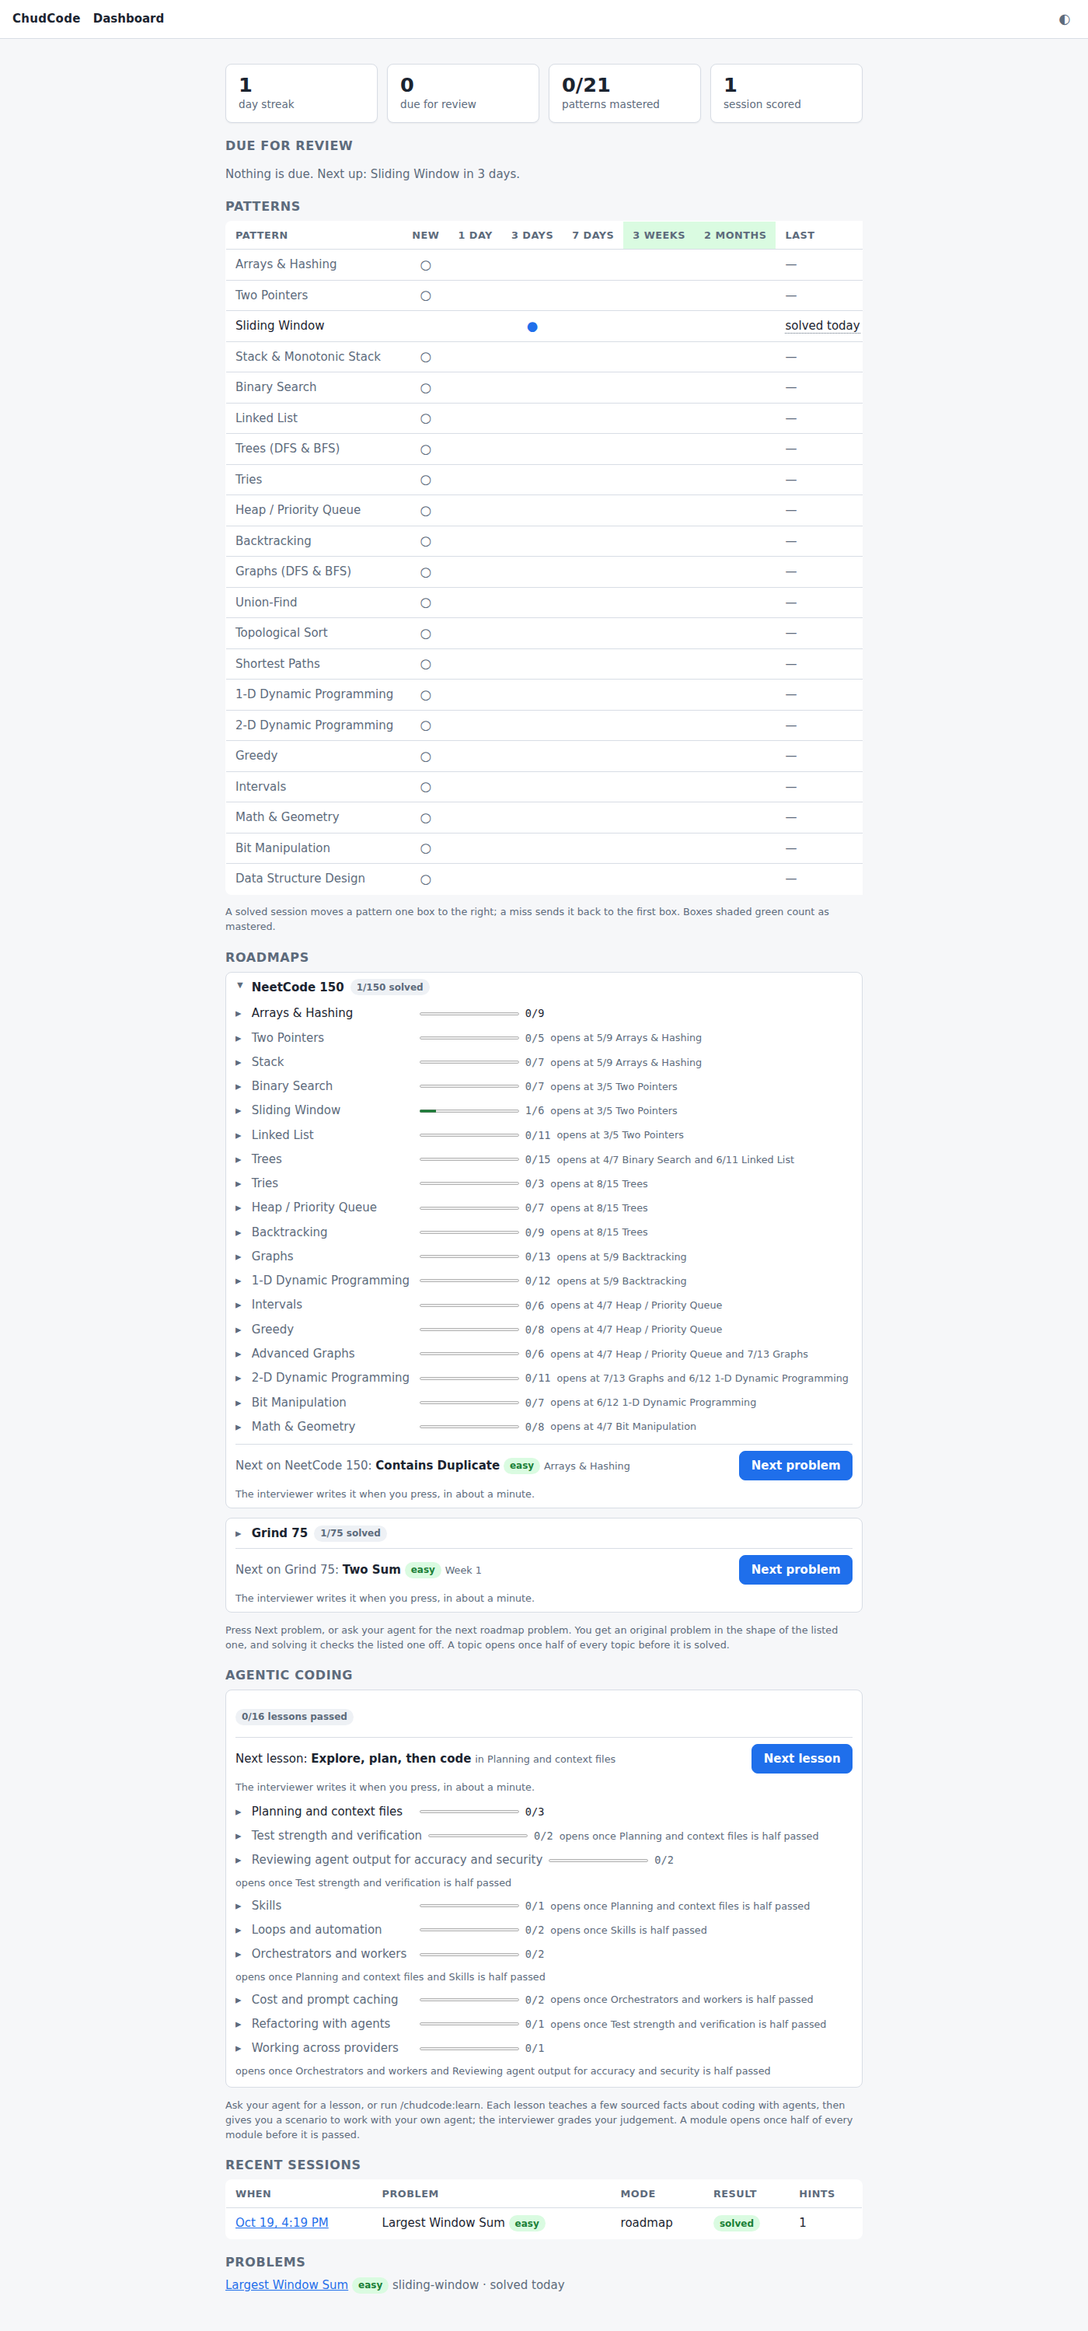
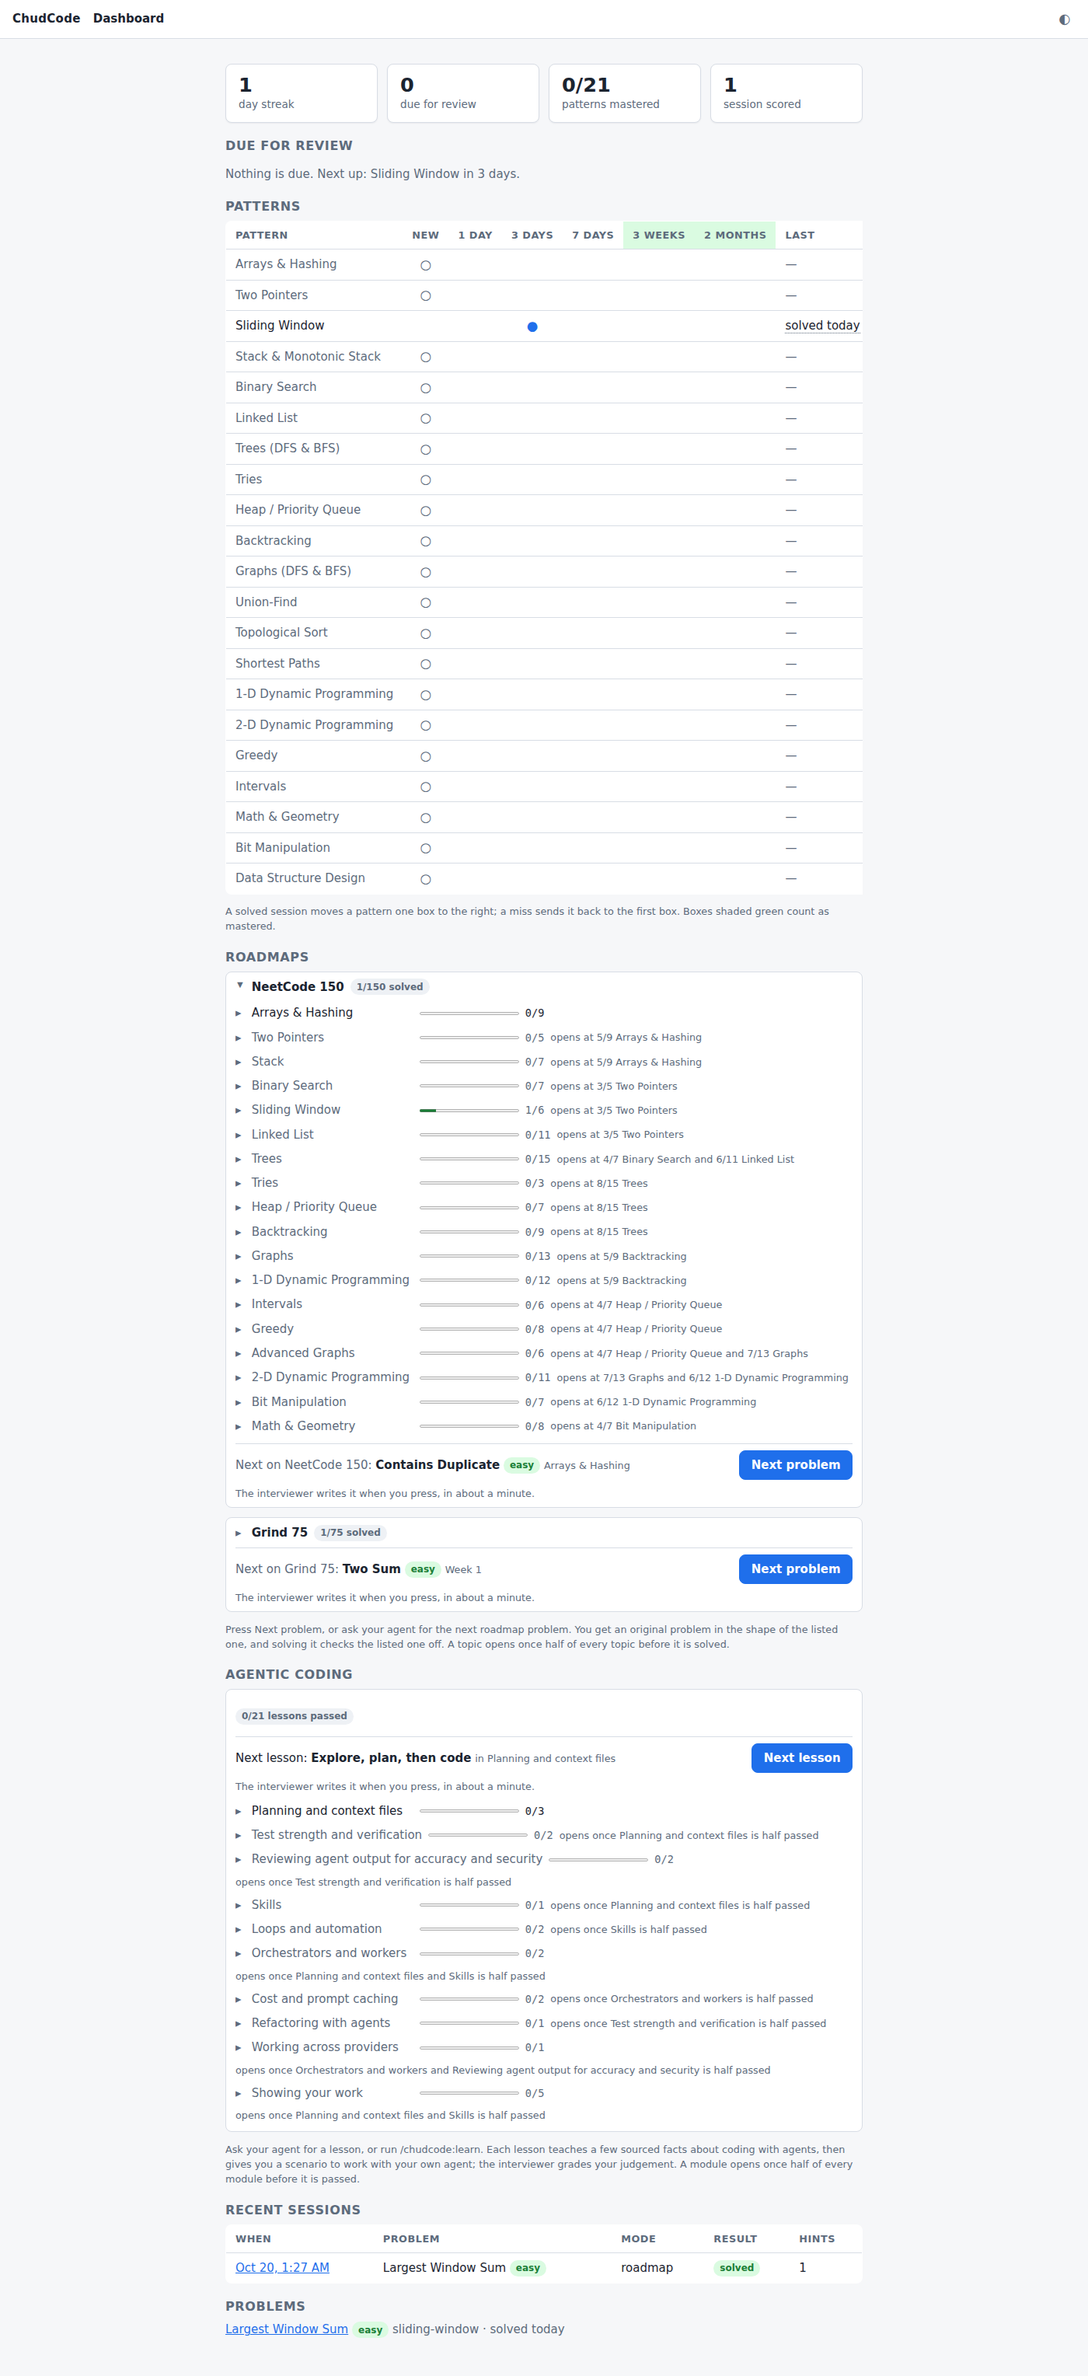
Release 0.3.0: document the Showing your work module and media labs
LEARNING.md says how to teach a media lab and judge its images by eye;
EXERCISE-FORMAT.md documents what a media lab opens, its caps, and how
media-checks.json drives the gate; the rubric doc adds Presentation; the
curriculum format covers media-lab checklists. The README shows a media
lab's measurements, the learn skill and Pi's /learn mention launch media,
and the version moves to 0.3.0 so the plugin updates.

diff --git a/pi/commands.ts b/pi/commands.ts
@@ -80,7 +80,7 @@ export const COMMANDS = {
   },
   learn: {
     description:
-      "Take a lesson on coding with agents: planning, context, tests, subagents, cost, and more. Usage: /learn [topic or lesson]",
+      "Take a lesson on coding with agents: planning, context, tests, subagents, cost, demo videos and launch pages, and more. Usage: /learn [topic or lesson]",
     prompt: (args: string) =>
       [
         "Teach a ChudCode lesson on agentic coding.",

diff --git a/docs/EXERCISE-FORMAT.md b/docs/EXERCISE-FORMAT.md
@@ -9,7 +9,8 @@ before serving it with `start_lesson`.
 ~/.chudcode/exercises/<slug>/
   meta.json      { slug, kind, lesson, title, createdAt, validatedAt?, timesServed, lastServedAt? }
   teaching.md    the lesson, citing curriculum facts as [fact:<id>]
-  brief.md       "## Scenario" and "## Your task" ("## Your task" alone for a lab)
+  brief.md       "## Scenario" and "## Your task" ("## Your task" alone for a lab,
+                 a media lab, or a transcript review)
   private.json   { modelOutline, followUps[], pitfalls[], mutation?, flawReview?, cachePlan?, refactor? }
 ```
 
@@ -23,7 +24,8 @@ checks that the outline and follow-ups appear on no page or API response.
 
 - the exercise's lesson exists and lists its kind;
 - the brief is 200 to 8,000 characters with its kind's sections;
-- a lab is for a lesson with a lab checklist and lab files;
+- a lab is for a lesson with a lab checklist and lab files, and a media lab or a
+  transcript review for a lesson with a checklist;
 - the teaching is 600 to 16,000 characters, cites every core fact of the lesson, and
   cites no fact the lesson does not have, so nothing unsourced is taught as fact;
 - the outline is at least 200 characters, with at least two follow-ups and two
@@ -42,6 +44,7 @@ Writing an exercise again clears its validation.
 | `refactor`      | has their agent commit characterisation tests, then refactor and commit         | code: tests first, 60% of bugs caught, behaviour and interface kept, simpler shape |
 | `transcript`    | picks one of their own Claude Code sessions and consents                        | the interviewer, on the rubric and the lesson's checklist                          |
 | `lab`           | builds it in their own repository and submits the folder                        | the interviewer, on the rubric and the lesson's checklist                          |
+| `media-lab`     | ships a site, demo video, and images in their repository and submits the folder | code: no fail-level media check fails; then the interviewer, as for a lab          |
 
 Every kind the curriculum lists can be served.
 
@@ -133,3 +136,29 @@ that do not parse, counts usage once per message id, and returns counts and the
 learner's first prompts (clipped and redacted), never the replies or tool output.
 The format is Claude Code's own, not a published contract, so every field is
 optional to the reader.
+
+## Media labs
+
+A media lab measures what the learner shipped to show their app off. Its brief has
+only "## Your task", since the scenario is their own project, and its lesson needs a
+checklist. The project comes from the page with the learner's consent, through the
+lab's guards (`resolveProjectRoot`, the deny-list, no links out of the folder).
+`src/media-lab.ts` then opens:
+
+- HTML pages at the root or in `docs/`, `site/`, `public/`, or `web/` (12 at most,
+  256 KB each), and the root README;
+- the images and videos those reference or that sit anywhere else in the project (80
+  at most), by their headers only: `src/media/probe.ts` reads PNG, JPEG, GIF, WebP,
+  SVG, AVIF, MP4, and WebM in at most 1 MB of positioned reads per file, never
+  decoding a frame, and a truncated or hostile file comes back with an error;
+- up to three images under 1 MB (the og:image, a video poster, then a screenshot),
+  which `inspect_media` returns to the interviewer as MCP image content.
+
+The checks are in `data/agentic/media-checks.json`. Each has an id the engine knows,
+a severity (`fail` or `warn`), and the curriculum facts it rests on, or a `basis`
+saying when a threshold is ChudCode's own budget rather than a platform's rule; a
+test keeps the file, the engine, and the curriculum in step. A check that does not
+apply (captions on a silent video, root-absolute links on a site with a `CNAME`) is
+`n/a`. The latest measurement decides the gate: the lesson cannot pass while a
+`fail` check fails, whatever the rubric says. The page shows every check and its
+findings after each measurement; nothing about it is hidden.

diff --git a/docs/ARCHITECTURE.md b/docs/ARCHITECTURE.md
@@ -55,6 +55,8 @@ runs in a fourth place, inside Pi, and bridges the two hosts' different abilitie
 | `src/lesson-flow.ts`    | Every operation that moves a lesson session along: start, message, answer, timeout, done, record. Lessons live in `lessons/`, apart from interviews.                                                                                                                                                                                  |
 | `src/drill/`            | The drills graded by code: `mutation.ts` grades a learner's suite against the reference, equivalent rewrites, and mutants (`workspace.ts` lays out the folder they work in); `flaw-review.ts` parses a diff and grades review marks against planted flaws; `cache-sim.ts` prices a caching plan from `data/agentic/cache-model.json`. |
 | `src/transcript.ts`     | Lists the learner's Claude Code session logs on request and summarises one: usage per message, models, gaps, compactions, prompts.                                                                                                                                                                                                    |
+| `src/media/`            | `probe.ts` reads an image's or video's facts from its headers (size, frames, duration, codec, audio, MP4 faststart) in bounded reads, never decoding; `page.ts` scans a page or README for link-preview tags, images, videos, captions, and local and root-absolute links.                                                            |
+| `src/media-lab.ts`      | Measures a media lab's project through the lab's guards: finds site pages and media, runs the checks in `data/agentic/media-checks.json`, and picks up to three images for the interviewer to see.                                                                                                                                    |
 | `src/next-lesson.ts`    | The Next lesson button: the next lesson and any exercise written for it, a pending press, and the window after a debrief while the interviewer stays.                                                                                                                                                                                 |
 | `src/lab.ts`            | Reads a lab's project folder read-only: path guards, the allow and deny lists, size caps, redaction, a hardened `git log`, and fact-based lints.                                                                                                                                                                                      |
 | `src/lesson-prompts.ts` | What the agent reads for lessons: the lesson brief with its facts and their freshness, and the lesson event prompts.                                                                                                                                                                                                                  |

diff --git a/skills/learn/SKILL.md b/skills/learn/SKILL.md
@@ -1,6 +1,6 @@
 ---
 name: learn
-description: Teach a lesson on coding with agents, such as planning with plan mode, CLAUDE.md and progress files, context and cost, strong tests, subagents with the right model and effort, skills, loops, refactoring, or working across providers. The learner works a realistic scenario with their own agent and is graded on their judgement. Use when the user wants to get better at agentic coding or asks what there is to learn about it.
+description: Teach a lesson on coding with agents, such as planning with plan mode, CLAUDE.md and progress files, context and cost, strong tests, subagents with the right model and effort, skills, loops, refactoring, working across providers, or showing an app off with demo videos, promo images, ads, and a GitHub Pages site. The learner works a realistic scenario with their own agent and is graded on their judgement. Use when the user wants to get better at agentic coding or asks what there is to learn about it.
 ---
 
 # Learn
@@ -25,13 +25,15 @@ description: Teach a lesson on coding with agents, such as planning with plan mo
    state. The learner may spend a long time in another terminal with their own
    agent; keep waiting. Do not end your turn during the lesson.
    - A lab arrives as a project folder the learner consented to on the page: read it
-     with `inspect_lab`. A transcript review arrives as one of their Claude Code
-     sessions: read it with `inspect_transcript`. Neither tool takes a path.
+     with `inspect_lab`. A media lab arrives the same way: measure it with
+     `inspect_media`, which also shows you up to three of its images to judge by eye.
+     A transcript review arrives as one of their Claude Code sessions: read it with
+     `inspect_transcript`. None of these tools takes a path.
    - A drill (mutation tests, a flaw review, a cache plan, a refactor) is graded by
      code when the learner presses its button; you get the full result, the page
      gets counts. Do not name what they missed before the debrief.
-6. Score it with `record_lesson` (labs and transcript reviews need a result for
-   every checklist item), then give the user the verdict, two strengths, two things
+6. Score it with `record_lesson` (labs, media labs, and transcript reviews need a
+   result for every checklist item), then give the user the verdict, two strengths, two things
    to work on, and when the lesson comes back for review. Then do what it says about
    the Next lesson button: write the next lesson's exercise ahead and keep waiting
    while the window is open.

diff --git a/docs/AGENTIC-RUBRIC.md b/docs/AGENTIC-RUBRIC.md
@@ -1,12 +1,13 @@
 # Agentic rubric
 
-Five dimensions, each scored 0 to 4, or null when the lesson gave no evidence for it.
+Six dimensions, each scored 0 to 4, or null when the lesson gave no evidence for it.
 A lesson's focus dimensions are always scored, and each must reach 2 for the lesson to
 pass. Score what the learner showed you, in the answer and the follow-ups, not what
 they might know.
 
 The rubric is half of the verdict for some kinds. A lab or a transcript review also
-needs to have been read, with nothing on its checklist missing. A drill graded by
+needs to have been read, with nothing on its checklist missing. A media lab needs that
+too, and its latest measurement must pass every fail-level check. A drill graded by
 code (mutation tests, a flaw review, a cache plan, a refactor) also needs its latest
 attempt to have cleared its gate: the rubric cannot pass work the checks failed, and
 a passed gate cannot pass judgement the rubric found wanting.
@@ -60,3 +61,16 @@ a passed gate cannot pass judgement the rubric found wanting.
 | 2     | Clear jobs per worker with a stated result; the same model and effort for everything.                                     |
 | 3     | Model, effort, and tools chosen per worker with reasons; independent workers run in parallel.                             |
 | 4     | Everything in 3, plus hand-off contracts precise enough to check, and a plan for a worker that fails or returns nonsense. |
+
+## Presentation
+
+Added with the Showing your work module. A rubric saved before it has no value here,
+which reads as n/a.
+
+| Score | Looks like                                                                                                                   |
+| ----- | ---------------------------------------------------------------------------------------------------------------------------- |
+| 0     | Nothing a stranger could follow: no demo, or one that shows a mock-up the app does not have.                                 |
+| 1     | Media exists but buries the point: a long, silent, unscripted recording, or images with no context.                          |
+| 2     | A clear demo and images that show the real app; rough edges in pacing, sizing, or accessibility.                             |
+| 3     | Scripted, short, and reproducible from code; works muted and on a phone; sized and described images; every claim true.       |
+| 4     | Everything in 3, plus a hook in the first seconds, one call to action, and media an agent can re-record when the UI changes. |

diff --git a/README.md b/README.md
@@ -146,6 +146,13 @@ make sure the patterns you keep missing are the ones you see again.
   reviews how you worked from its numbers: models and switches, cache reads and
   writes, long gaps, compactions, and your prompts. Nothing is listed or read until
   you ask on the page, and the replies and tool output are never read.
+- Media labs: the Showing your work module covers demo videos recorded from code,
+  screenshots and social previews, honest short ads, a GitHub Pages site, and
+  generated media through MCP. Point a media lab at the repository you ship from and
+  it measures your pages and media by their headers: codec and faststart, autoplay
+  that is muted and inline, posters, captions, alt text, Open Graph tags, and links
+  that break on a project site. The interviewer also sees your social preview and
+  poster, and judges them by eye.
 - After any lesson's debrief, the Next lesson button opens the next one; the
   interviewer writes it while you read the debrief.
 - Company trends: the research skill reads recent interview-experience posts with
@@ -176,6 +183,11 @@ A flaw review shows an agent's diff; click the lines you would block and name th
 problem.
 
 ![A flaw review: an agent's diff to a Flask invoices blueprint with four lines marked, including a committed key and a SQL string built from the search term, and the mark form open on a call to an API that does not exist](docs/screenshots/flaw-review.png)
+
+A media lab measures the site and media in your repository. After each measurement
+the page lists the checks that fail first, each with the file and line to fix.
+
+![A media lab page: the teaching on GitHub Pages with cited sources, and the measured checks for a first attempt, with failures for a missing image, an HEVC video without faststart, an autoplaying video that is not muted, an image with no alt text, no og:image, and a root-absolute link, then amber warnings](docs/screenshots/media-lab.png)
 
 The dashboard shows every pattern's place in the review schedule, what is due, the
 streak, progress through both roadmaps and the agentic-coding modules, and past

diff --git a/docs/LEARNING.md b/docs/LEARNING.md
@@ -162,6 +162,31 @@ where the model is priced, and their first prompts, clipped and redacted. Judge 
 against the lesson's checklist and point at numbers in your follow-up.
 `record_lesson` needs a result for every checklist item, as for a lab.
 
+## Media labs
+
+The Showing your work module grades what the learner shipped to show an app off: a
+GitHub Pages site, a demo video, promo and social-preview images, the README. The
+brief needs only `## Your task`; the project is their own. They name the folder on
+the page and consent, and `inspect_media` measures the pages and media by their
+headers against `data/agentic/media-checks.json`: codec and faststart, size and
+length, autoplay with muted and playsinline, posters, captions, alt text, declared
+image sizes, Open Graph tags, and links that break under a project site's
+`/<repo>/`. Each check cites the facts it rests on, or says when its threshold is
+ChudCode's own budget.
+
+The tool also shows you up to three images: the social preview, a poster, a
+screenshot. Judge those by eye, because no check can: is it the real app, does the
+preview say what the app does, is the text legible at the size a feed shows it. You
+know nothing of a video's content beyond its measurements; do not claim to. A failed
+`fail` check blocks a pass whatever the rubric says, so name the one to fix first in
+your follow-up; they can fix it and resubmit, and the latest measurement counts.
+Score Presentation for these lessons, and answer every checklist item.
+
+The lessons that are design reviews in this module (an ad brief, a plan for
+generated media) are graded on honesty as much as craft: a claim needs evidence, a
+review or testimonial must be real, and generated media must not show an app that
+does not exist.
+
 ## After the debrief
 
 `record_lesson` names the next lesson. Write its exercise ahead of time (begin it,

diff --git a/docs/CURRICULUM-FORMAT.md b/docs/CURRICULUM-FORMAT.md
@@ -56,15 +56,17 @@ The agentic-coding track is one file, `data/agentic/curriculum.json`, checked by
 - **Outlines.** A lesson with `"facts": []` is an outline: it shows on the dashboard
   as coming, cannot be taught, and does not count toward unlocking. Write and source
   its facts to make it teachable.
-- **Transcript reviews.** A teachable lesson that lists `transcript` needs a
-  `checklist`.
+- **Transcript reviews and media labs.** A teachable lesson that lists `transcript`
+  or `media-lab` needs a `checklist`. A media lab's mechanical checks live in
+  `data/agentic/media-checks.json`, and every fact a check cites must exist here.
 - **Labs.** A teachable lesson that lists `lab` needs a `checklist` and the
   `labFiles` a lab reads. Every lab file must be a pattern on `LAB_ALLOW` in
   `src/lab.ts`, so a curriculum edit cannot widen what a lab may read.
 
 ## Keeping facts current
 
-Claude Code changes faster than this file. Before teaching, the interviewer re-reads
+Claude Code changes faster than this file, and so do the web pages the Showing your
+work module cites (GitHub, MDN, web.dev, the FTC). Before teaching, the interviewer re-reads
 the source of any fact last confirmed more than 14 days ago and records what it
 found with `record_fact_check` in `~/.chudcode/curriculum/fact-checks.jsonl`. A fact
 found changed is taught as the page says now, flagged on the lesson page, and
